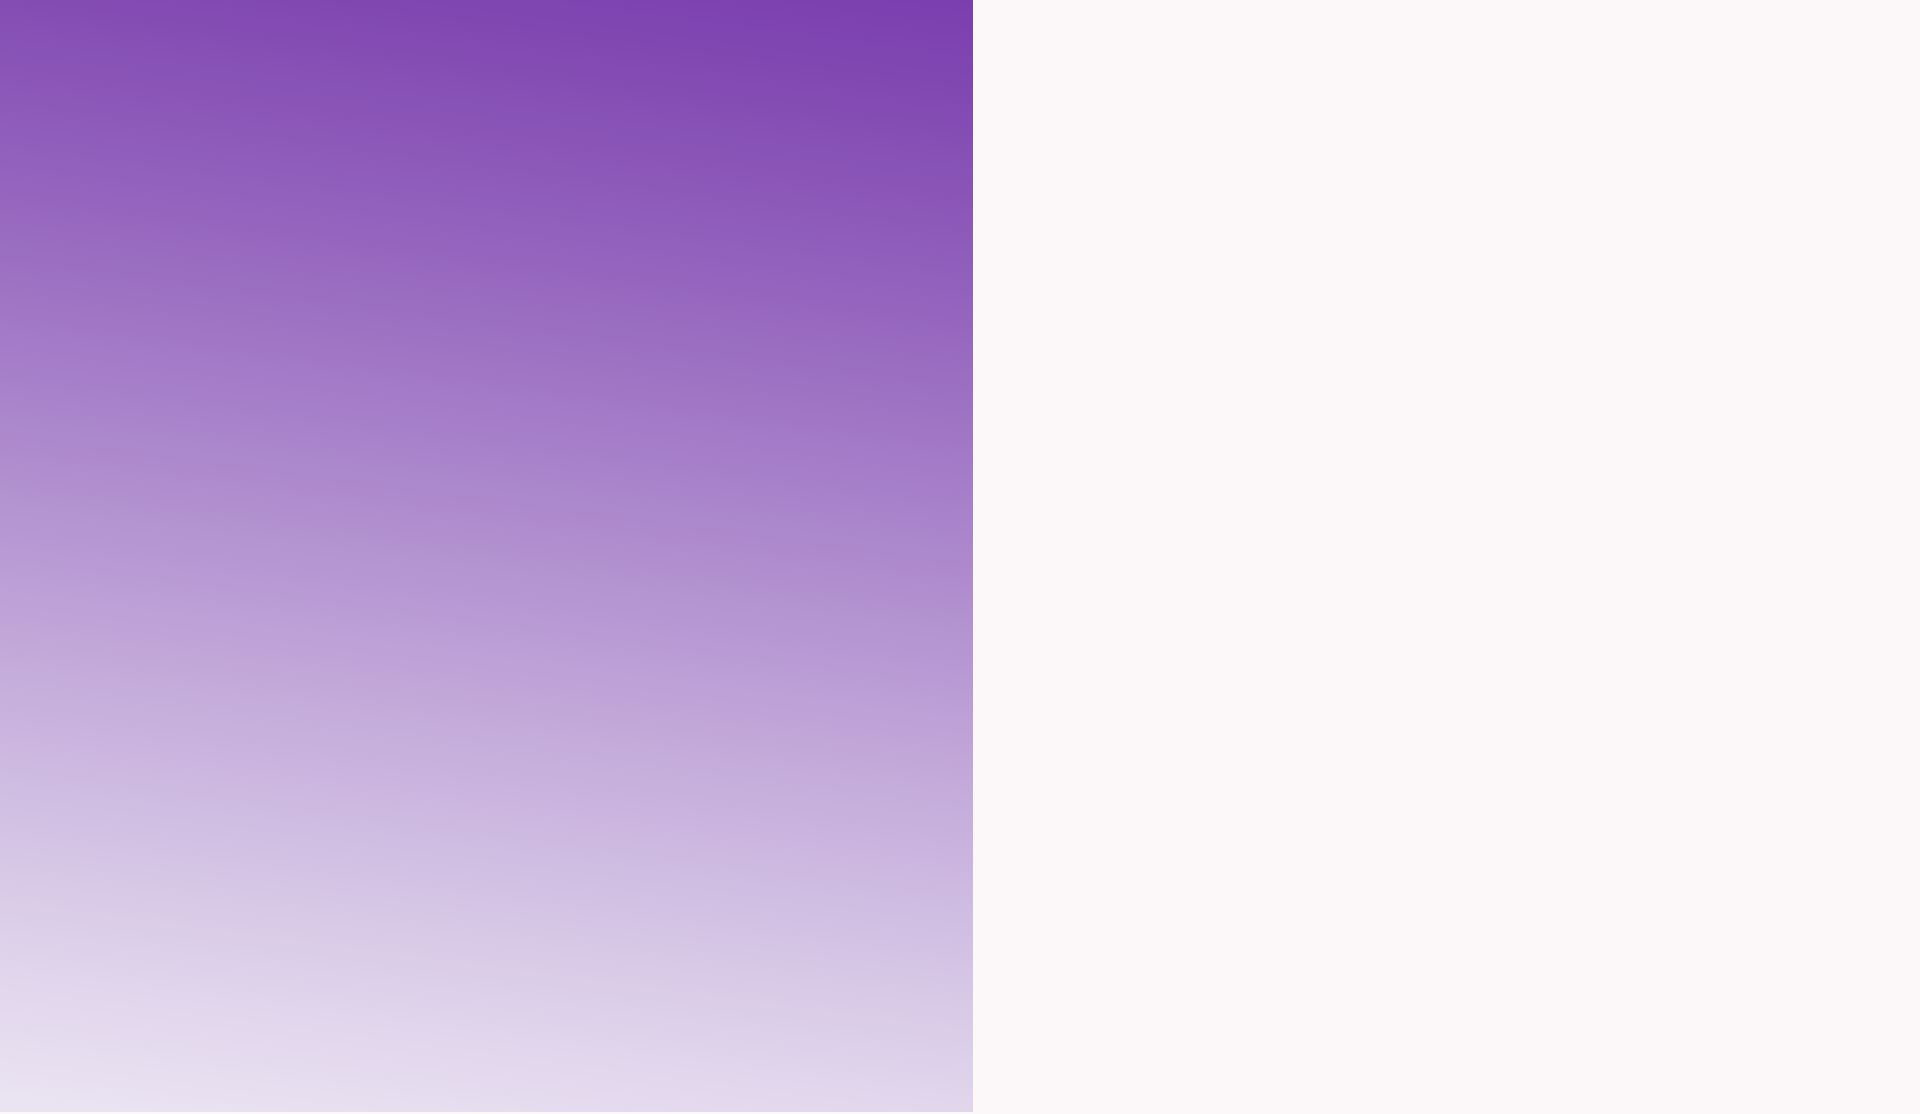
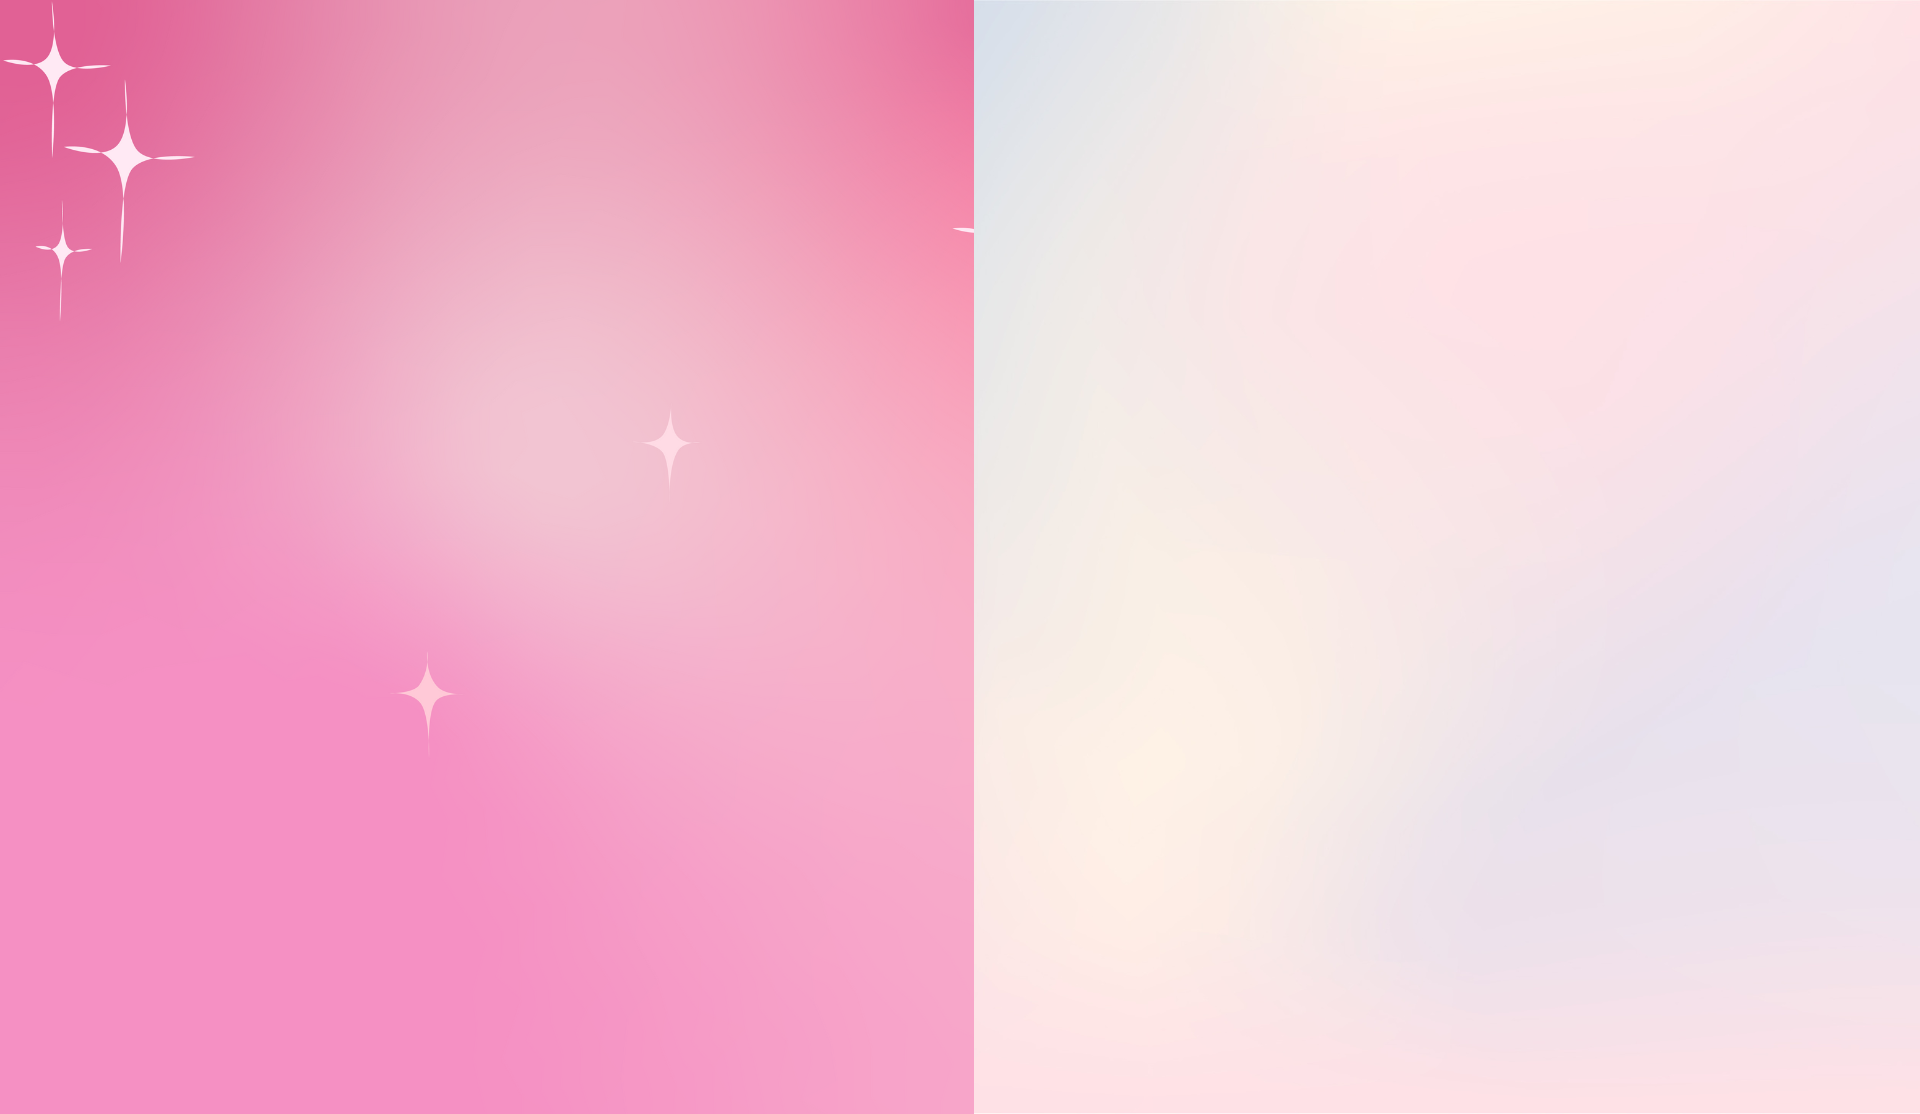
7commit

diff --git a/css/responsive.css b/css/responsive.css
@@ -85,47 +85,70 @@
 /*------------------------------------------------------------------- 599px x 280px ---------------------------------------------------------------------*/
 
 @media only screen and (min-width: 280px) and (max-width: 599px) {
+
+    /* Điều chỉnh padding-bottom của giỏ hàng thành 5px để giảm khoảng trống dưới giỏ hàng trên màn hình nhỏ */
     .cart-content-right {
         padding-bottom: 5px;
     }
+
+    /* Bỏ toàn bộ padding cho tất cả các cột trong .row của .megamenu */
     .megamenu>.row [class*="col-"] {
         padding: 0px;
     }
+
+    /* Điều chỉnh padding trái/phải của mục .men-cat trong megamenu, giúp nội dung hiển thị tốt trên màn hình nhỏ */
     .menu-area-main .megamenu .men-cat {
         padding: 0px 15px;
     }
+
+    /* Điều chỉnh padding trái/phải của mục .women-cat trong megamenu, giúp nội dung hiển thị tốt trên màn hình nhỏ */
     .menu-area-main .megamenu .women-cat {
         padding: 0px 15px;
     }
+
+    /* Điều chỉnh padding trái/phải của mục .el-cat trong megamenu, giúp nội dung hiển thị tốt trên màn hình nhỏ */
     .menu-area-main .megamenu .el-cat {
         padding: 0px 15px;
     }
+
+    /* Thiết lập padding cho các liên kết trong mean-nav và điều chỉnh chiều rộng để các liên kết vừa khít trên màn hình nhỏ */
     .mean-container .mean-nav ul li a {
-        padding: 1em 4%;
-        width: 92%;
+        padding: 1em 4%; /* Padding trên/dưới 1em, trái/phải 4% */
+        width: 92%;      /* Chiều rộng của liên kết là 92% */
     }
+
+    /* Điều chỉnh padding và chiều rộng cho các liên kết con bên trong mean-nav để chúng hiển thị hợp lý trên màn hình nhỏ */
     .mean-container .mean-nav ul li li a {
-        width: 90%;
-        padding: 1em 5%;
+        width: 90%;     /* Chiều rộng của liên kết con là 90% */
+        padding: 1em 5%; /* Padding trên/dưới 1em, trái/phải 5% */
     }
+
+    /* Đặt padding và chiều rộng cho các liên kết trong danh sách megamenu-categories để hiển thị nội dung hợp lý trên màn hình nhỏ */
     .mean-container .sub-full.megamenu-categories ol li a {
-        padding: 5px 0px;
-        text-transform: capitalize;
-        width: 100%;
+        padding: 5px 0px;      /* Padding trên/dưới 5px, trái/phải 0px */
+        text-transform: capitalize; /* Viết hoa chữ cái đầu tiên của mỗi từ */
+        width: 100%;           /* Chiều rộng 100% */
     }
+
+    /* Đặt lại các thuộc tính cho liên kết trong women-box để loại bỏ các kiểu viền và căn chỉnh trên màn hình nhỏ */
     .megamenu .sub-full.megamenu-categories .women-box .banner-up-text a {
-        width: auto;
-        border: none;
-        float: none;
+        width: auto;      /* Chiều rộng tự động */
+        border: none;     /* Không có viền */
+        float: none;      /* Không nổi bên trái/phải */
     }
+
+    /* Đặt chiều cao cho menu chính và cho phép cuộn theo chiều dọc trên màn hình nhỏ */
     .menu-area-main {
-        height: 45px;
-        overflow-y: auto;
+        height: 45px;     /* Chiều cao cố định 45px */
+        overflow-y: auto; /* Cho phép cuộn theo chiều dọc nếu nội dung quá dài */
     }
+
+    /* Đặt lại vị trí cho các liên kết mở rộng (expand) trong mean-nav trên màn hình nhỏ */
     .mean-container .mean-nav ul li a.mean-expand {
-        top: 0;
+        top: 0; /* Căn chỉnh phần tử ở phía trên cùng */
     }
 }
+
 
 @media (min-width: 992px) and (max-width: 1199px) {
     .titlepage h2::after {
@@ -591,7 +614,7 @@
     }
     .red_bt a {
         width: 100%;
-        padding: 10px 0px;
+        padding: 10px;
         margin-bottom: 20px;
     }
     .red_more_bt a {
@@ -839,7 +862,7 @@
     }
     .red_bt a {
         font-size: 16px;
-        padding: 10px 0px;
+        padding: 10px;
         margin-bottom: 20px;
     }
     .redmore_bt a {

diff --git a/index.html b/index.html
@@ -176,7 +176,7 @@
          <!-- gifts section start -->
          <div id="sanpham" class="gifts_section layout_padding">
             <div class="container">
-               <h1 class="ourgifts_text">Các sản phẩm của chúng mình</h1>
+               <h1 class="ourgifts_text">CÁC SẢN PHẨM CỦA CHÚNG MÌNH</h1>
                <p class="lorem_text">Với đợt mở bán lần này chúng mình mang đến cho cả nhà hàng loạt sản phẩm hoa handmade, nến và nhiều combo hấp dẫn.</p>
                <div id="target_section" class="gifts_section_2">
                   <div class="row">
@@ -297,28 +297,6 @@
                <!-- Đoạn mã iframe được nhúng từ Google Form -->
                <iframe src="https://forms.gle/Mj9YRCudKst37ndb7" frameborder="0" marginheight="0" marginwidth="0">Loading…</iframe>
            </div>
-           
-   
-            <!-- <div class="about_padding">
-   
-                
-       
-               <div class="shop_section layout_padding">
-                  <div class="row">
-                     <div class="col-md-6">
-                        <div class="shop_img"><img src="images/img-7.png"></div>
-                     </div>
-                     <div class="col-md-6">
-                        <div class="shop_taital">
-                           <h1 class="shop_text">Our Shop</h1>
-                           <p class="ipsum_text">irst true generator on the Internet. It uses a dictionary of over 200 Latin words, combined with a handful of model sentence structures, to generate Lorem Ipsum which looks reasonable. The generated Lorem Ipsum is therefore alw</p>
-                           <p class="ipsum_text">irst true generator on the Internet. It uses a dictionary of over 200 Latin words, combined with a handful of model sentence structures, to generate Lorem Ipsum which looks reasonable. The generated Lorem Ipsum is therefore alw</p>
-                           <div class="red_more_bt"><a href="#">Read More</a></div>
-                        </div>
-                     </div>
-                  </div>
-               </div>
-            </div> -->
          </div>
          
          <!-- about section start -->
@@ -392,5 +370,26 @@
          document.getElementById("myNav").style.width = "0%";
          }
       </script>
+
+      <script>
+         // Kích hoạt tính năng vuốt cho carousel
+         $(document).ready(function() {
+         $("#my_Controls").on("touchstart", function(event){
+            var xClick = event.originalEvent.touches[0].pageX;
+            $(this).one("touchmove", function(event){
+               var xMove = event.originalEvent.touches[0].pageX;
+               if( Math.floor(xClick - xMove) > 5 ){ 
+                  $(this).carousel('next'); // Vuốt sang trái, chuyển sang slide tiếp theo
+               }
+               else if( Math.floor(xClick - xMove) < -5 ){
+                  $(this).carousel('prev'); // Vuốt sang phải, chuyển về slide trước đó
+               }
+            });
+            $("#my_Controls").on("touchend", function(){
+               $(this).off("touchmove");
+            });
+         });
+         });
+         </script>
    </body>
 </html>

diff --git a/css/style.css b/css/style.css
@@ -334,7 +334,7 @@ button {
 }
 
 .banner_taital {
-    width: 80%;
+    width: 90%;
     float: right;
     margin-top: 145px;
 }
@@ -443,22 +443,23 @@ button {
 .gifts_section {
     width: 100%;
     float: left;
-    background-image: url(../images/gift-bg.png);
+    background-image: url(../images/sanpham_bg.png);
     height: auto;
     background-size: cover;
     position: relative;
-    left: 20px;
+    /* left: 20px; */
 }
 
 .ourgifts_text {
     width: 95%;
     float: left;
-    color: #ffffff;
+    color: #000000;
     font-size: 50px;
     margin-left: 0px;
     text-align: center;
     font-weight: bold;
-    margin-top: 150px;
+    margin-top: 100px;
+    /* font-weight: bold; */
 }
 
 form-container {
@@ -480,8 +481,8 @@ iframe {
 .lorem_text {
     width: 100%;
     float: left;
-    font-size: 16px;
-    color: #ffffff;
+    font-size: 20px;
+    color: #000000;
     text-align: center;
     margin-left: 0px;
 }
@@ -513,10 +514,6 @@ iframe {
     height: 150px;
     position: relative;
     top: -85px;
-    display: flex; /* Thêm display: flex */
-    flex-direction: column; /* Xếp các phần tử con theo chiều dọc */
-    justify-content: center; /* Căn giữa theo chiều dọc */
-    align-items: center; /* Căn giữa theo chiều ngang */
     text-align: center; /* Đảm bảo văn bản được căn giữa */
 }
 
@@ -867,9 +864,9 @@ iframe {
 
 #my_Controls a.carousel-control-prev {
     position: absolute;
-    left: 93%;
-    top: 88%;
-    background-color: #b625e8;
+    left: 95%;
+    top: 50%;
+    background-color: #ffffff;
     color: #000;
 }
 
@@ -890,8 +887,8 @@ iframe {
 
 #my_Controls a.carousel-control-next {
     position: absolute;
-    left: 88%;
-    top: 88%;
+    left: 0%;
+    top: 50%;
     background-color: #010101;
 }
 
